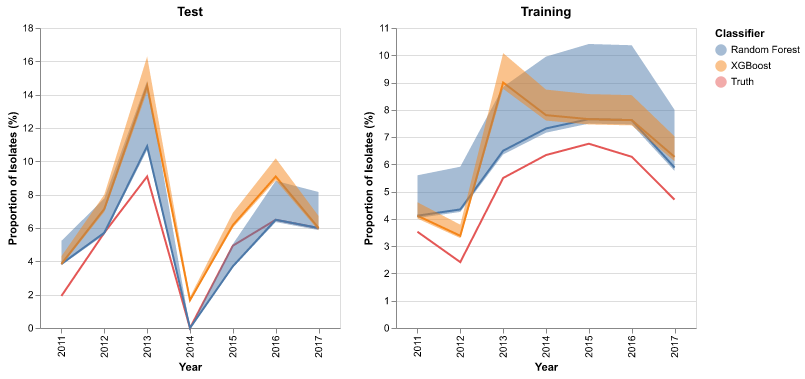
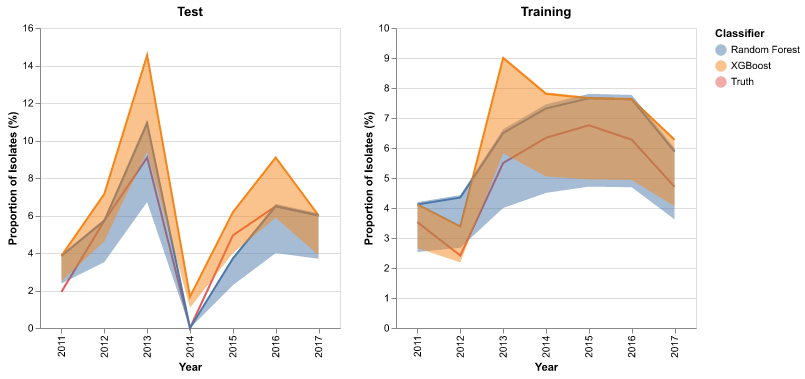
fixing error band calculation

diff --git a/scripts/classifierutils.py b/scripts/classifierutils.py
@@ -156,8 +156,7 @@ def testClassifiers(df:pd.core.frame.DataFrame, err_df:pd.core.frame.DataFrame, 
     including accuracy, F1-score, precision, recall, sensitivity, and specificity.  
     The false-positive and -negative rates are also computed for computing error bands
     in the yearly fraction plots.  These yearly fraction plots are also computed 
-    independently for the test and training sets.  This fucntion also saves the raw
-    prediction datsets to "output/{dataset name}-predictions.csv
+    independently for the test and training sets.
 
     Arguments
         - df (DataFrame) : pandas DataFrame containing the predictions on the Test and
@@ -269,16 +268,16 @@ def testClassifiers(df:pd.core.frame.DataFrame, err_df:pd.core.frame.DataFrame, 
         alt_df = alt_df[trend_cols].melt("Year", var_name="Classifier", value_name="Fraction")
         alt_df["Fraction"] = alt_df["Fraction"] * 100
         
-        ## Use the FPR and FNR values to approximate error margins
+        ## Use the FDR and FOR values to approximate error margins
         alt_df.set_index(["Year","Classifier"], inplace=True)
         # for cname in classifier_names:
         for cname in classifier_names:
-            fpr_vec = err_df[f"{cname} FPR"].to_numpy()
-            fnr_vec = err_df[f"{cname} FNR"].to_numpy()
+            fdr_vec = err_df[f"{cname} FDR"].to_numpy()
+            for_vec = err_df[f"{cname} FOR"].to_numpy()
 
             idx_tup = (err_df.index, cname)
-            alt_df.loc[idx_tup,"min"] = alt_df.loc[idx_tup,"Fraction"] * (1-fpr_vec)
-            alt_df.loc[idx_tup,"max"] = alt_df.loc[idx_tup,"Fraction"] * (1+fnr_vec)
+            alt_df.loc[idx_tup,"min"] = alt_df.loc[idx_tup,"Fraction"] * (1-fdr_vec)
+            alt_df.loc[idx_tup,"max"] = alt_df.loc[idx_tup,"Fraction"] * (1+for_vec)
 
         # Undo the indexing
         alt_df.reset_index(inplace=True)
@@ -345,7 +344,6 @@ def testClassifiers(df:pd.core.frame.DataFrame, err_df:pd.core.frame.DataFrame, 
         # Save the yearly trend correlation chart
         corr_chart.save(f"output/{prefix}.correlations.png")
         
-    # return printstr, output_chart, corr_chart, fpr_dict, fnr_dict
     return printstr, output_chart, corr_chart
 
 
@@ -394,18 +392,18 @@ def predictClassifiers(uti_df:pd.core.frame.DataFrame, bsi_df:pd.core.frame.Data
     melt_alt_df = alt_df.melt("Year", var_name="Classifier", value_name="Fraction")
     melt_alt_df["Fraction"] = melt_alt_df["Fraction"] * 100
 
-    ## Use the FPR and FNR values to approximate error margins
+    ## Use the FDR and FOR values to approximate error margins
     melt_alt_df.set_index(["Year","Classifier"], inplace=True)
-    fpr_vec = err_df[f"{cname} FPR"].to_numpy()
-    fnr_vec = err_df[f"{cname} FNR"].to_numpy()
+    fdr_vec = err_df[f"{cname} FDR"].to_numpy()
+    for_vec = err_df[f"{cname} FOR"].to_numpy()
     
     melt_alt_df.insert(loc=1, column="min", value=None)
     melt_alt_df.insert(loc=2, column="max", value=None)
 
     for _m in ["Predicted UTI", "Predicted BSI"]:
         idx_tup = (err_df.index, _m)
-        melt_alt_df.loc[idx_tup,"min"] = melt_alt_df.loc[idx_tup,"Fraction"] * (1-fpr_vec)
-        melt_alt_df.loc[idx_tup,"max"] = melt_alt_df.loc[idx_tup,"Fraction"] * (1+fnr_vec)
+        melt_alt_df.loc[idx_tup,"min"] = melt_alt_df.loc[idx_tup,"Fraction"] * (1-fdr_vec)
+        melt_alt_df.loc[idx_tup,"max"] = melt_alt_df.loc[idx_tup,"Fraction"] * (1+for_vec)
     melt_alt_df.reset_index(inplace=True)
     
     ## Visualize the predicted yearly fractions
@@ -543,14 +541,14 @@ def trainClassifiers(data_df:pd.core.frame.DataFrame, prefix:str,
     print(f"XGBoost hyperparameters: {prefix}")
     print(classifiers["XGBoost"].best_params_)
 
-    ## Initialize a dataframe for FPR and FNR
+    ## Initialize a dataframe for FDR and FOR
     # err_df = pd.DataFrame({"Year":np.unique(year)})
     err_df = pd.DataFrame({"Year":df["Year"].unique()})
 
     ## Initialize feature importance frame
     importance_df = pd.DataFrame(columns=atbs, index=["Final Model","CV Mean","CV Std"]+[f"Fold {_ix}" for _ix in range(5)])
 
-    ## Compute the predictions, FPR, and FNR of each classifier
+    ## Compute the predictions, FDR, and FOR of each classifier
     for c_name,c in classifiers.items():
         ys_pred = c.predict(xs)
         yt_pred = c.predict(xt)
@@ -560,10 +558,10 @@ def trainClassifiers(data_df:pd.core.frame.DataFrame, prefix:str,
         # Compute confusion matrix
         _,_,_,_,_,_,conf,_ = testPerformance(yt, yt_pred, classifier_name=c_name, verbose=False)
         tn, fp, fn, tp = conf.ravel()
-        fpr = fp / (fp + tn)
-        fnr = fn / (fn + tp)
-        err_df[f"{c_name} FPR"] = fpr
-        err_df[f"{c_name} FNR"] = fnr
+        FDR = fp / (tp + fp)
+        FOR = fn / (tn + fn)
+        err_df[f"{c_name} FDR"] = FDR
+        err_df[f"{c_name} FOR"] = FOR
 
         # Print the Random Forest feature importances
         if c_name == "Random Forest":
